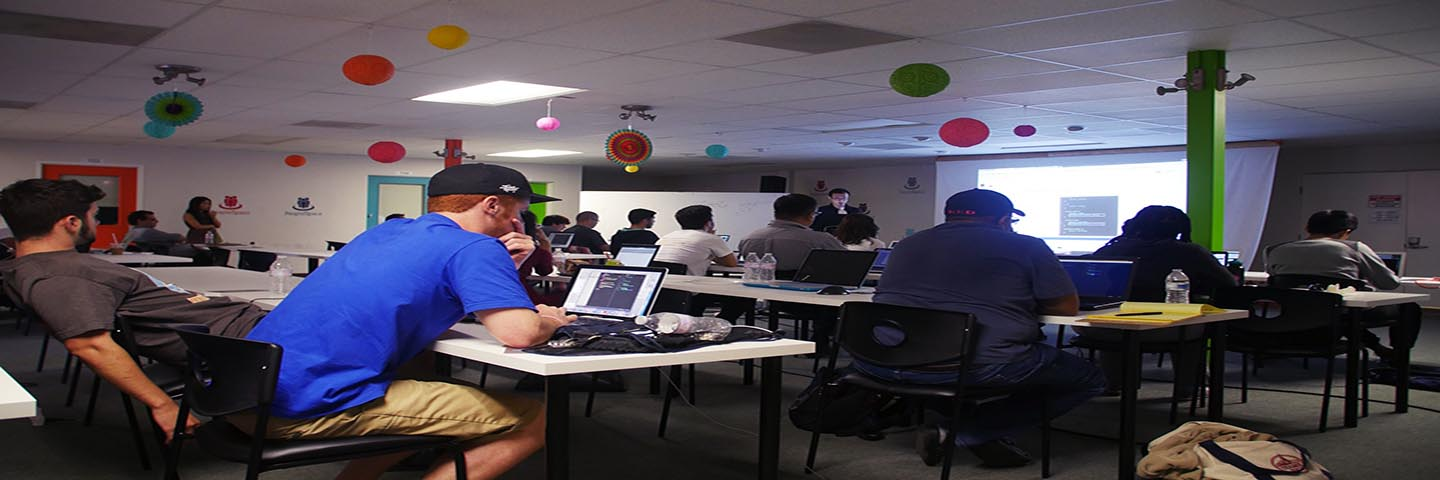
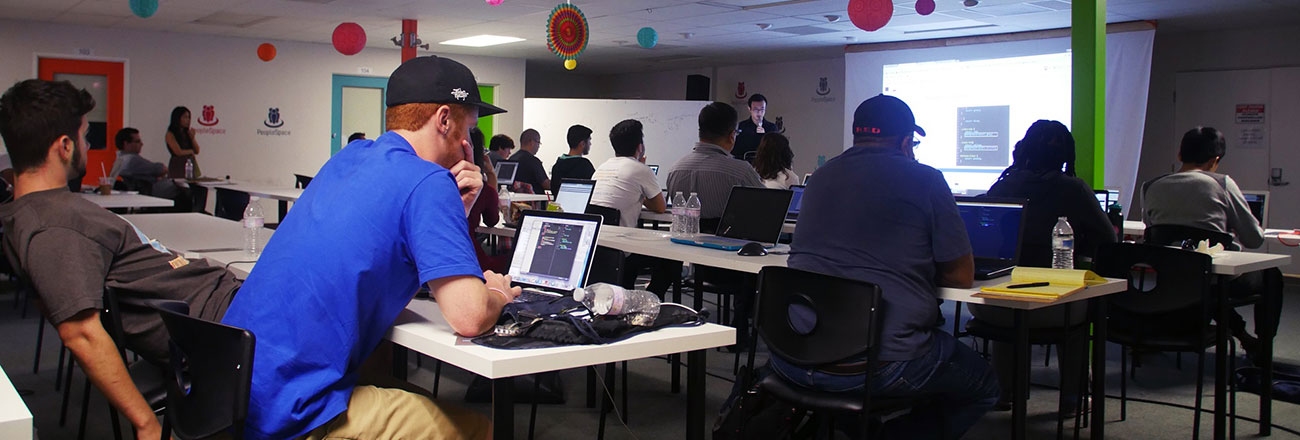
fixed header picture, added newreal events with images, changed some text, added rsvp button

diff --git a/views/events.html b/views/events.html
@@ -72,19 +72,19 @@
         <section class="meetup_intro">
             <div class="container">
                 <h3>Learn with us</h3>
-                <h4>HackFront hosts code trainings and workshops, most for free.</h4>
+                <h4>HackFront hosts code trainings and workshops in the community</h4>
                 <p>Whether you're a newbie wanting to learn how to code or a professional coding guru, we'd love you to join us! We aim to provide a fun, supportive, and informal space where all of us can hang out, learn programming and computer science, build exciting projects and apps, and create tools to solve existing problems.</p>
-                <a class="btn btn-primary btn-lg" href="https://www.meetup.com/Learn-to-Code-Websites-and-Apps/">Click to Join our Meetup for Updates</a>
+                <a class="btn btn-primary btn-lg" href="https://www.meetup.com/Learn-to-Code-Websites-and-Apps/" target="_blank">Click to Join our Meetup for Updates</a>
                 <div class="row">
                     <div class="col-sm-12 col-md-7 col-lg-6">
                         <p>What do we do?</p>
                         <ul>
-                            <li>Code-along training workshops - tutorials on how to use a specific framework</li>
-                            <li>Tech presentations - speaker presents on a relevant topic for developers and/or startup businesses</li>
-                            <li>Projects - work on app projects with small groups or pair programming</li>
-                            <li>Co-working and casual learning - work on your own projects independently while enjoying the company of like-minded people and a cup of coffee</li>
-                            <li>Project show-and-tell - show off your app and get feedback, generate ideas, gain exposure, share your experience developing the project</li>
-                            <li>Other random, fun activities like geeky movie nights and joint events with other meetups!</li>
+                            <li><strong>Code-along training workshops</strong> - tutorials on how to use a specific framework</li>
+                            <li><strong>Tech presentations</strong> - speaker presents on a relevant topic for developers and/or startup businesses</li>
+                            <li><strong>Projects</strong> - work on app projects with small groups or pair programming</li>
+                            <li><strong>Co-working and casual learning</strong> - work on your own projects independently while enjoying the company of like-minded people and a cup of coffee</li>
+                            <li><strong>Project show-and-tell</strong> - show off your app and get feedback, generate ideas, gain exposure, share your experience developing the project</li>
+                            <li><strong>Other random, fun activities</strong> like geeky movie nights and joint events with other meetups!</li>
                         </ul>
                     </div>
                     <div class="col-sm-12 col-md-5 col-lg-6">
@@ -97,34 +97,38 @@
             <div class="container">
                 <div class="row">
                     <div class="col-sm-12 col-md-5 col-lg-4">
-                        <img src="https://placehold.it/942x628" class="img-responsive">
+                        <!--img 942x628-->
+                        <img src="../assets/images/events/javascript-beginners.jpg" class="img-responsive">
                     </div>
                     <div class="col-sm-12 col-md-7 col-lg-8">
-                        <h3 class="event-header">HTML/CSS Training for Beginners</h3>
-                        <p class="event-date">October 17, 2015 at 9:00am</p>
-                        <p class="event-location"><span class="location-name">PeopleSpace</span>
-                            <br>1691 Kettering, Irvine, CA, 92602, US
+                        <h3 class="event-header">Javascript for Beginners</h3>
+                        <p class="event-date">Mon Dec. 17, 2015 at 6:30pm-8:30pm</p>
+                        <p class="event-location"><span class="location-name">MEDL Mobile</span>
+                            <br>7 Studebaker, Irvine, CA 92618
                         </p>
-                        <p class="event-paragraph">Have you ever wanted to learn how to make a website? This session will be catered to beginners wanting to learn HTML and CSS. HTML is used to create the architecture of a webpage and CSS is used to style webpages and make them look edgy, professional, fun, or any look you want.
-                            <br> This 7 hour training is absolutely free. We hope it'll benefit a lot of people and/or peak their interest to the tech/dev world.</p>
-                        <p class="readmore"><a href="https://www.meetup.com/Learn-to-Code-Websites-and-Apps/events/225748032/" target="_blank">Find Out More</a></p>
-                        <p class="presenter">Presenter: <span class="presenter-name">Sylvester Lan,</span> <span class="presenter-title">instructor at Hack Front Code School</span></p>
+                        <p class="event-paragraph">Want to learn Javascript but don’t understand a single thing online?  Learn the starting blocks of Javascript and find out its interactive capabilities as the leading programming language on the web.</p>
+                        <p class="readmore"><a href="http://www.meetup.com/Learn-to-Code-Websites-and-Apps/events/227298785/" target="_blank">Find Out More</a></p>
+                        <a href="http://www.meetup.com/Learn-to-Code-Websites-and-Apps/events/227298785/" target="_blank" class="btn btn-primary rsvp-btn">RSVP to attend</a>
+                        <p class="presenter">Presenter: <span class="presenter-name">Sylvester Lan,</span> <span class="presenter-title">instructor at HackFront Code School</span></p>
                     </div>
                     <!-- /.col -->
                 </div>
                 <!-- /.row -->
                 <div class="row">
                     <div class="col-sm-12 col-md-5 col-lg-4">
+                        <!--img 942x628-->
                         <img src="../assets/images/events/bootstrap.jpeg" class="img-responsive">
                     </div>
                     <div class="col-sm-12 col-md-7 col-lg-8">
-                        <h3 class="event-header">Twitter Bootstrap and Responsive Design</h3>
-                        <p class="event-date">October 17, 2015</p>
+                        <h3 class="event-header">Bootstrap.js Extra Excitement for your Site</h3>
+                        <p class="event-date">Tue Jan. 26, 2016 at 6:30pm-8:30pm</p>
                         <p class="event-location"><span class="location-name">PeopleSpace</span>
                             <br>1691 Kettering, Irvine, CA, 92602, US
                         </p>
-                        <p class="event-paragraph">As a web developer or web designer, it is almost a must to know Twitter Bootstrap. Bootstrap provides an accelerated way to style websites as well as resize them for desktops, tablets, and phones. Since April 2015, Google has boosted the ranking of mobile-friendly pages on mobile search results, making it even more important to design responsive or mobile-friendly webpages. Join us for a coding session and learn how to start using Twitter Bootstrap on your sites.</p>
-                        <p class="readmore"><a href="https://www.meetup.com/Learn-to-Code-Websites-and-Apps/events/225773458/" target="_blank">Find Out More</a></p>
+                        <p class="event-paragraph">Twitter Bootstrap provides an easy way to create interactive features very quickly.  As a web developer or web designer, Bootstrap is a must-know. Learn how to use Bootstrap to add professional interactions like carousels(sliders), tabs, tooltips, modals(pop-ups), and accordions, and start using them on your website immediately.
+                            <br>Requirement: must have basic understanding of HTML</p>
+                        <p class="readmore"><a href="http://www.meetup.com/Learn-to-Code-Websites-and-Apps/events/227311697/" target="_blank">Find Out More</a></p>
+                        <a href="http://www.meetup.com/Learn-to-Code-Websites-and-Apps/events/227311697/" target="_blank" class="btn btn-primary rsvp-btn">RSVP to attend</a>
                         <p class="presenter">Presenter: <span class="presenter-name">Jennifer Pham</span>, <span class="presenter-title"> web developer at Glidewell Laboratories</p>
                     </div><!-- /.col -->
                 </div><!-- /.row -->
@@ -137,7 +141,7 @@
             <div class="container">
                 <h3>Get a hot new career change</h3>
                 <h4>HackFront trains students full-time to become web developers and software engineers.</h4>
-                <a class="btn btn-primary btn-lg" href="views/form.html">Limited Seats. Reserve your spot now.</a>
+                <a class="btn btn-primary btn-lg" href="apply.html">Limited Seats. Reserve your spot now.</a>
             </div>
         </section>
 

diff --git a/assets/css/events.css b/assets/css/events.css
@@ -44,6 +44,10 @@
 .readmore{
 
 }
+.rsvp-btn{
+    margin-top: 0px;
+    margin-bottom: 5px;
+}
 .presenter-name{
     font-style:normal;
     font-size: 16px;
